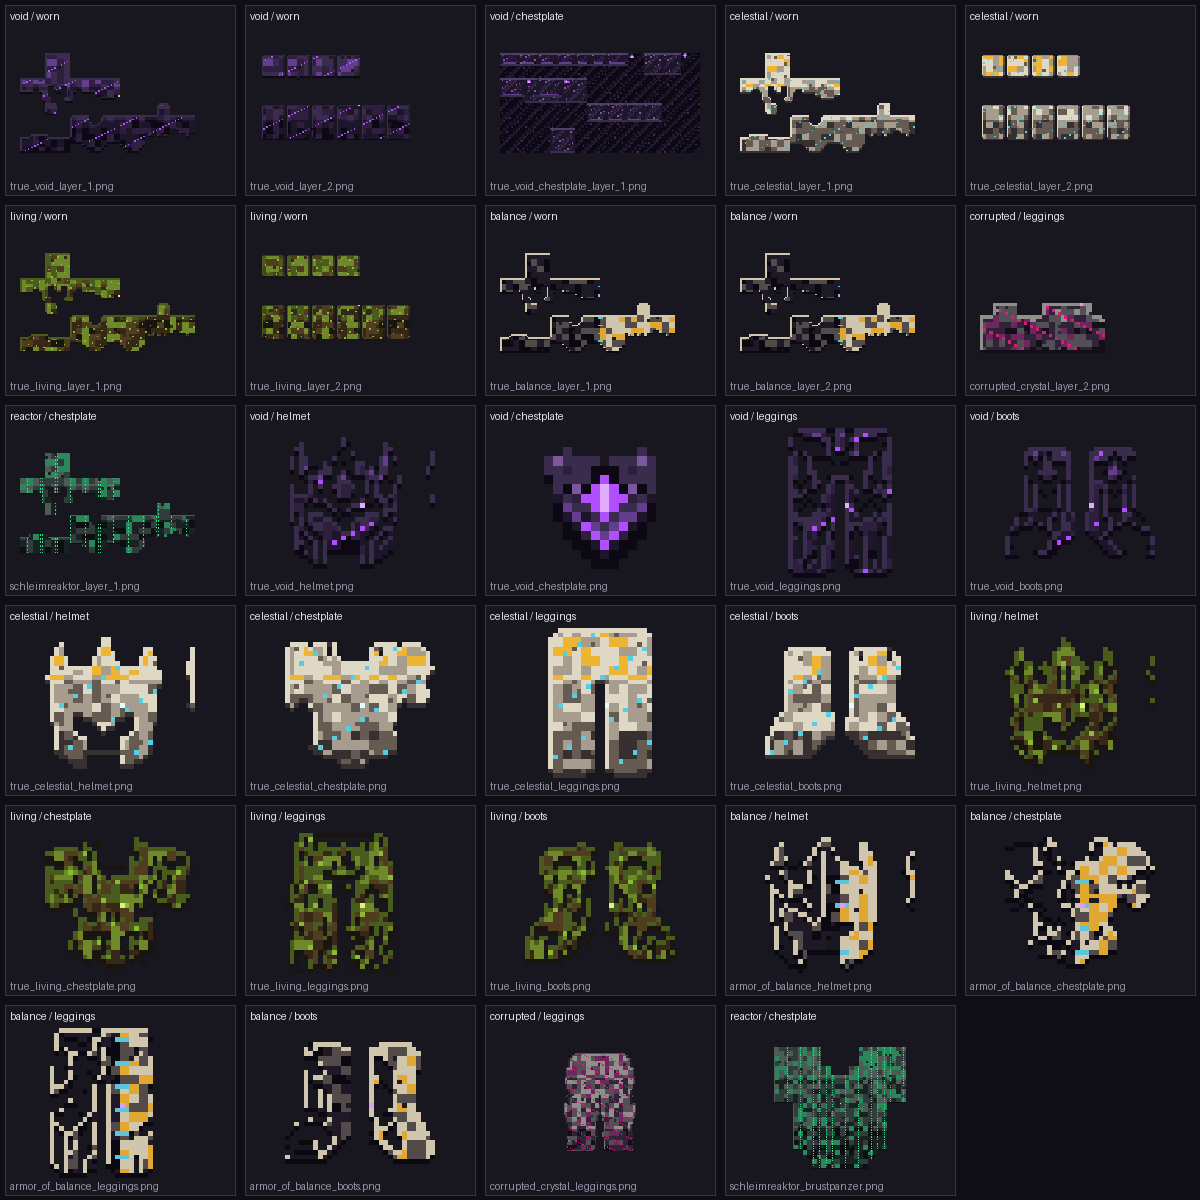
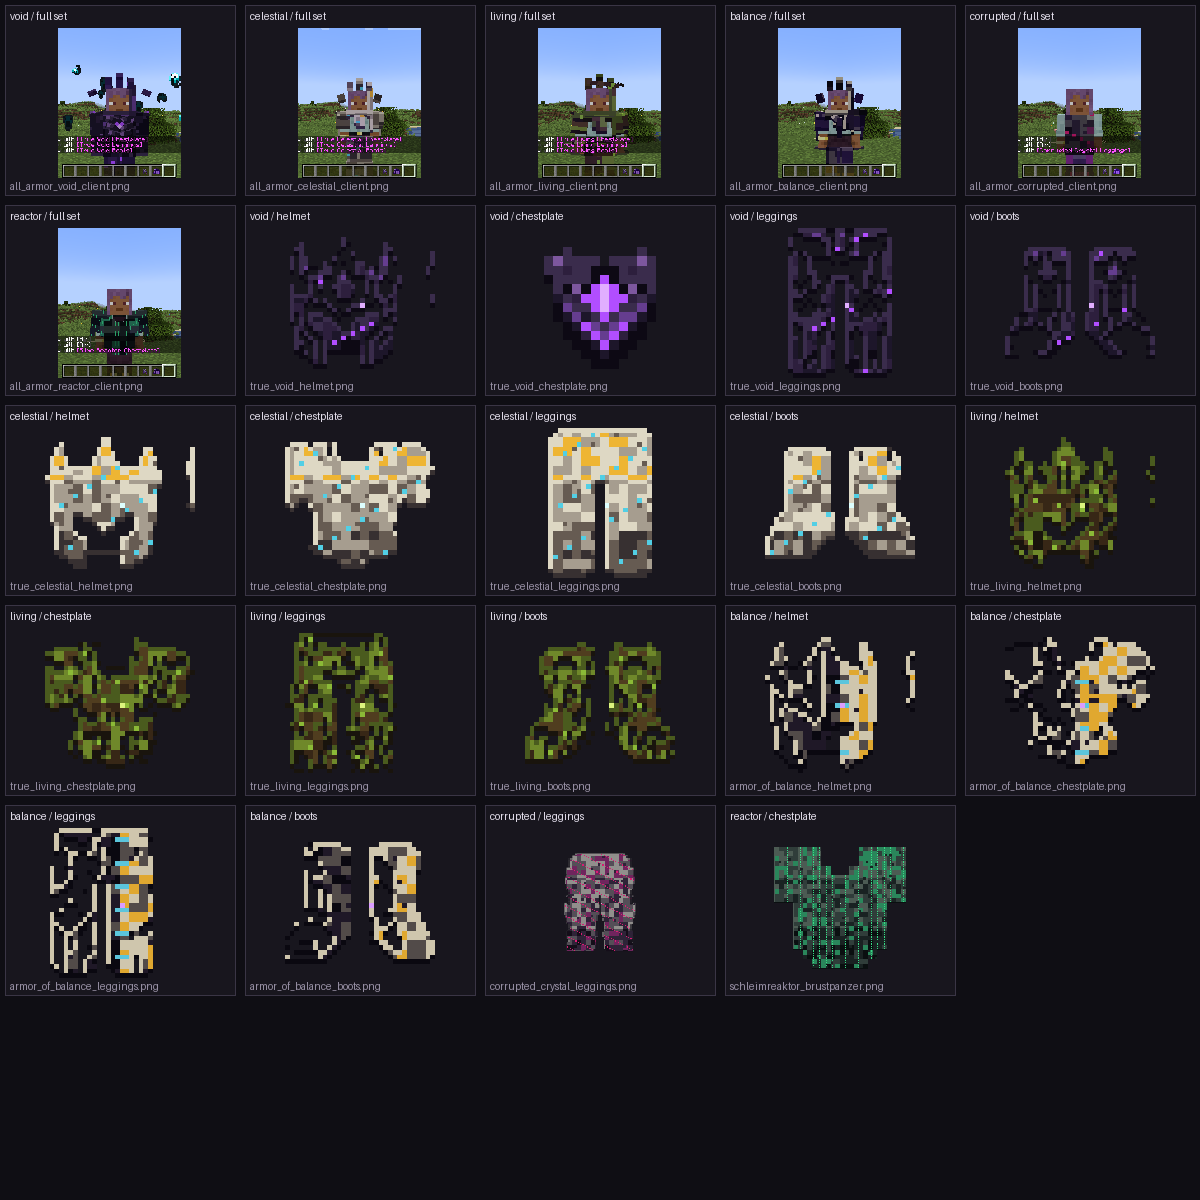
fix: repair armor crown pivots and previews

diff --git a/src/main/java/com/Momik/usless_mobs/client/WornTruePathArmorModel.java b/src/main/java/com/Momik/usless_mobs/client/WornTruePathArmorModel.java
@@ -99,12 +99,12 @@ public class WornTruePathArmorModel extends HumanoidModel<LivingEntity> {
                 PartPose.ZERO);
         root.getChild("head").addOrReplaceChild("balance_void_side_horn",
                 CubeListBuilder.create().texOffs(104, 0)
-                        .addBox(-6.4F, -10.6F, -1.0F, 2.8F, 1.4F, 2.0F, new CubeDeformation(0.06F)),
-                PartPose.rotation(0.0F, 0.0F, -0.48F));
+                        .addBox(-1.4F, -0.7F, -1.0F, 2.8F, 1.4F, 2.0F, new CubeDeformation(0.06F)),
+                PartPose.offsetAndRotation(-5.0F, -9.9F, 0.0F, 0.0F, 0.0F, -0.48F));
         root.getChild("head").addOrReplaceChild("balance_living_vine",
                 CubeListBuilder.create().texOffs(114, 0)
-                        .addBox(3.4F, -10.8F, -4.95F, 2.8F, 1.0F, 1.0F, new CubeDeformation(0.05F)),
-                PartPose.rotation(0.0F, 0.0F, 0.36F));
+                        .addBox(-1.4F, -0.5F, -0.5F, 2.8F, 1.0F, 1.0F, new CubeDeformation(0.05F)),
+                PartPose.offsetAndRotation(4.8F, -10.3F, -4.45F, 0.0F, 0.0F, 0.36F));
     }
 
     public static void showForType(HumanoidModel<?> model, ArmorItem.Type type) {
@@ -185,51 +185,50 @@ public class WornTruePathArmorModel extends HumanoidModel<LivingEntity> {
     }
 
     private static void addPathCrown(PartDefinition root, TruePathArmorItem.Path path) {
-        PartDefinition head = root.getChild("head");
-        head.addOrReplaceChild("true_crown_band",
+        root.getChild("head").addOrReplaceChild("true_crown_band",
                 CubeListBuilder.create().texOffs(72, 0)
                         .addBox(-5.0F, -9.0F, -5.0F, 10.0F, 2.0F, 10.0F, new CubeDeformation(0.18F)),
                 PartPose.ZERO);
-        head.addOrReplaceChild("true_crown_center_spike",
+        root.getChild("head").addOrReplaceChild("true_crown_center_spike",
                 CubeListBuilder.create().texOffs(0, 52)
                         .addBox(-1.0F, -12.2F, -5.15F, 2.0F, 4.0F, 2.0F, new CubeDeformation(0.10F)),
                 PartPose.ZERO);
-        head.addOrReplaceChild("true_crown_left_spike",
+        root.getChild("head").addOrReplaceChild("true_crown_left_spike",
                 CubeListBuilder.create().texOffs(8, 52)
                         .addBox(-4.2F, -11.0F, -5.0F, 1.8F, 3.2F, 1.8F, new CubeDeformation(0.08F)),
                 PartPose.ZERO);
-        head.addOrReplaceChild("true_crown_right_spike",
+        root.getChild("head").addOrReplaceChild("true_crown_right_spike",
                 CubeListBuilder.create().texOffs(16, 52)
                         .addBox(2.4F, -11.0F, -5.0F, 1.8F, 3.2F, 1.8F, new CubeDeformation(0.08F)),
                 PartPose.ZERO);
 
         if (path == TruePathArmorItem.Path.VOID) {
-            head.addOrReplaceChild("true_void_left_horn",
+            root.getChild("head").addOrReplaceChild("true_void_left_horn",
                     CubeListBuilder.create().texOffs(24, 52)
-                            .addBox(-6.2F, -10.4F, -1.2F, 2.5F, 1.5F, 2.4F, new CubeDeformation(0.06F)),
-                    PartPose.rotation(0.0F, 0.0F, -0.42F));
-            head.addOrReplaceChild("true_void_right_horn",
+                            .addBox(-1.25F, -0.75F, -1.2F, 2.5F, 1.5F, 2.4F, new CubeDeformation(0.06F)),
+                    PartPose.offsetAndRotation(-4.95F, -9.65F, 0.0F, 0.0F, 0.0F, -0.42F));
+            root.getChild("head").addOrReplaceChild("true_void_right_horn",
                     CubeListBuilder.create().texOffs(34, 52)
-                            .addBox(3.7F, -10.4F, -1.2F, 2.5F, 1.5F, 2.4F, new CubeDeformation(0.06F)),
-                    PartPose.rotation(0.0F, 0.0F, 0.42F));
+                            .addBox(-1.25F, -0.75F, -1.2F, 2.5F, 1.5F, 2.4F, new CubeDeformation(0.06F)),
+                    PartPose.offsetAndRotation(4.95F, -9.65F, 0.0F, 0.0F, 0.0F, 0.42F));
         } else if (path == TruePathArmorItem.Path.CELESTIAL) {
-            head.addOrReplaceChild("true_celestial_left_wing",
+            root.getChild("head").addOrReplaceChild("true_celestial_left_wing",
                     CubeListBuilder.create().texOffs(44, 52)
-                            .addBox(-6.4F, -8.6F, -1.0F, 2.6F, 3.2F, 1.8F, new CubeDeformation(0.05F)),
-                    PartPose.rotation(0.0F, 0.0F, -0.28F));
-            head.addOrReplaceChild("true_celestial_right_wing",
+                            .addBox(-1.3F, -1.6F, -0.9F, 2.6F, 3.2F, 1.8F, new CubeDeformation(0.05F)),
+                    PartPose.offsetAndRotation(-5.1F, -7.0F, -0.1F, 0.0F, 0.0F, -0.28F));
+            root.getChild("head").addOrReplaceChild("true_celestial_right_wing",
                     CubeListBuilder.create().texOffs(54, 52)
-                            .addBox(3.8F, -8.6F, -1.0F, 2.6F, 3.2F, 1.8F, new CubeDeformation(0.05F)),
-                    PartPose.rotation(0.0F, 0.0F, 0.28F));
+                            .addBox(-1.3F, -1.6F, -0.9F, 2.6F, 3.2F, 1.8F, new CubeDeformation(0.05F)),
+                    PartPose.offsetAndRotation(5.1F, -7.0F, -0.1F, 0.0F, 0.0F, 0.28F));
         } else {
-            head.addOrReplaceChild("true_living_vine",
+            root.getChild("head").addOrReplaceChild("true_living_vine",
                     CubeListBuilder.create().texOffs(64, 52)
-                            .addBox(-4.7F, -9.8F, -5.35F, 9.4F, 1.0F, 1.0F, new CubeDeformation(0.08F)),
-                    PartPose.rotation(0.0F, 0.0F, 0.12F));
-            head.addOrReplaceChild("true_living_leaf",
+                            .addBox(-4.7F, -0.5F, -0.5F, 9.4F, 1.0F, 1.0F, new CubeDeformation(0.08F)),
+                    PartPose.offsetAndRotation(0.0F, -9.3F, -4.85F, 0.0F, 0.0F, 0.12F));
+            root.getChild("head").addOrReplaceChild("true_living_leaf",
                     CubeListBuilder.create().texOffs(86, 52)
-                            .addBox(1.0F, -11.2F, -5.3F, 2.0F, 1.2F, 1.2F, new CubeDeformation(0.05F)),
-                    PartPose.rotation(0.0F, 0.0F, 0.42F));
+                            .addBox(-1.0F, -0.6F, -0.6F, 2.0F, 1.2F, 1.2F, new CubeDeformation(0.05F)),
+                    PartPose.offsetAndRotation(2.0F, -10.6F, -4.7F, 0.0F, 0.0F, 0.42F));
         }
     }
 

diff --git a/tools/armor_graphics/build_all_armor_skins.py b/tools/armor_graphics/build_all_armor_skins.py
@@ -304,11 +304,45 @@ def publish_documents(repo_root: Path, documents: dict[str, Image.Image]) -> Non
                 backup.unlink()
 
 
-def build_contact_sheet(documents: dict[str, Image.Image]) -> Image.Image:
+CLIENT_PREVIEW_PATHS = {
+    family: f"Modelle/Exports/armor_graphics_review/all_armor_{family}_client.png"
+    for family in ("void", "celestial", "living", "balance", "corrupted", "reactor")
+}
+
+
+def _client_subject_preview(source: Image.Image) -> Image.Image:
+    source = source.convert("RGBA")
+    # The real client captures are 16:9; crop the central player/model so details
+    # remain readable in the contact sheet instead of shrinking the whole HUD.
+    crop_width = min(source.width, round(source.height * 0.82))
+    left = max(0, (source.width - crop_width) // 2)
+    return source.crop((left, 0, left + crop_width, source.height))
+
+
+def contact_entries(
+    documents: dict[str, Image.Image], repo_root: Path
+) -> list[tuple[str, str, str, Image.Image]]:
+    entries = []
+    for family, relative_path in CLIENT_PREVIEW_PATHS.items():
+        path = repo_root / relative_path
+        if not path.is_file():
+            raise FileNotFoundError(f"missing real-client armor preview: {path}")
+        with Image.open(path) as source:
+            source.load()
+            entries.append((family, "full set", path.name, _client_subject_preview(source)))
+    for spec in OUTPUT_SPECS:
+        if "textures/item" in spec.relative_path:
+            entries.append(
+                (spec.family, spec.slot, Path(spec.relative_path).name, documents[spec.relative_path])
+            )
+    return entries
+
+
+def build_contact_sheet(documents: dict[str, Image.Image], repo_root: Path) -> Image.Image:
     sheet = Image.new("RGBA", (1200, 1200), (15, 14, 20, 255))
     draw = ImageDraw.Draw(sheet)
     cell_width, cell_height = 240, 200
-    for index, spec in enumerate(OUTPUT_SPECS):
+    for index, (family, slot, filename, image) in enumerate(contact_entries(documents, repo_root)):
         column, row = index % 5, index // 5
         left, top = column * cell_width, row * cell_height
         draw.rectangle(
@@ -316,7 +350,6 @@ def build_contact_sheet(documents: dict[str, Image.Image]) -> Image.Image:
             fill=(24, 22, 30, 255),
             outline=(58, 53, 69, 255),
         )
-        image = documents[spec.relative_path]
         scale = min(200 / image.width, 150 / image.height)
         preview = image.resize(
             (max(1, round(image.width * scale)), max(1, round(image.height * scale))),
@@ -325,8 +358,8 @@ def build_contact_sheet(documents: dict[str, Image.Image]) -> Image.Image:
         x = left + (cell_width - preview.width) // 2
         y = top + 28 + (150 - preview.height) // 2
         sheet.alpha_composite(preview, (x, y))
-        draw.text((left + 10, top + 10), f"{spec.family} / {spec.slot}", fill=(231, 226, 239, 255))
-        draw.text((left + 10, top + 180), Path(spec.relative_path).name, fill=(153, 145, 166, 255))
+        draw.text((left + 10, top + 10), f"{family} / {slot}", fill=(231, 226, 239, 255))
+        draw.text((left + 10, top + 180), filename, fill=(153, 145, 166, 255))
     return sheet
 
 
@@ -334,7 +367,9 @@ def write_all(repo_root: Path) -> None:
     documents = build_documents(repo_root)
     publish_documents(repo_root, documents)
     review_path = repo_root / "Modelle/Exports/armor_graphics_review/all_armor_skins_contact.png"
-    candidate = _stage_payload(review_path, png_bytes(build_contact_sheet(documents)), ".candidate")
+    candidate = _stage_payload(
+        review_path, png_bytes(build_contact_sheet(documents, repo_root)), ".candidate"
+    )
     try:
         os.replace(candidate, review_path)
     finally:

diff --git a/tools/armor_graphics/tests/test_armor_graphics.py b/tools/armor_graphics/tests/test_armor_graphics.py
@@ -485,7 +485,8 @@ def worn_model_child_owners(source: str) -> dict[str, str]:
 def worn_method_geometry(source: str, method_name: str) -> dict[str, tuple]:
     searchable_source = mask_java_non_code(source)
     declaration = re.compile(
-        rf"\bprivate\s+static\s+void\s+{re.escape(method_name)}\s*\(\s*PartDefinition\s+root\s*\)\s*\{{"
+        rf"\bprivate\s+static\s+void\s+{re.escape(method_name)}\s*\(\s*PartDefinition\s+root"
+        rf"(?:\s*,\s*TruePathArmorItem\.Path\s+path)?\s*\)\s*\{{"
     )
     declarations = list(declaration.finditer(searchable_source))
     if len(declarations) != 1:
@@ -979,6 +980,47 @@ class ContractHelperTests(unittest.TestCase):
         for mutation in mutations:
             with self.subTest(mutation=mutation), self.assertRaises(AssertionError):
                 worn_method_geometry(mutation, "build")
+
+    def test_path_crown_rotated_accents_use_local_centred_pivots(self):
+        source = (REPO_ROOT / "src/main/java/com/Momik/usless_mobs/client/WornTruePathArmorModel.java").read_text(
+            encoding="utf-8"
+        )
+        geometry = worn_method_geometry(source, "addPathCrown")
+        expected = {
+            "true_void_left_horn": ((2.5, 1.5, 2.4), (-4.95, -9.65, 0.0)),
+            "true_void_right_horn": ((2.5, 1.5, 2.4), (4.95, -9.65, 0.0)),
+            "true_celestial_left_wing": ((2.6, 3.2, 1.8), (-5.1, -7.0, -0.1)),
+            "true_celestial_right_wing": ((2.6, 3.2, 1.8), (5.1, -7.0, -0.1)),
+            "true_living_vine": ((9.4, 1.0, 1.0), (0.0, -9.3, -4.85)),
+            "true_living_leaf": ((2.0, 1.2, 1.2), (2.0, -10.6, -4.7)),
+        }
+        for name, (dimensions, offset) in expected.items():
+            with self.subTest(name=name):
+                part = geometry[name]
+                origin = part[2]
+                self.assertEqual(dimensions, part[3])
+                self.assertEqual("offsetAndRotation", part[5])
+                self.assertEqual(offset, part[6])
+                for axis in range(3):
+                    self.assertAlmostEqual(-dimensions[axis] / 2, origin[axis], places=5)
+
+    def test_balance_crown_accents_use_local_centred_pivots(self):
+        source = (REPO_ROOT / "src/main/java/com/Momik/usless_mobs/client/WornTruePathArmorModel.java").read_text(
+            encoding="utf-8"
+        )
+        geometry = worn_method_geometry(source, "addBalancedCrown")
+        expected = {
+            "balance_void_side_horn": ((2.8, 1.4, 2.0), (-5.0, -9.9, 0.0)),
+            "balance_living_vine": ((2.8, 1.0, 1.0), (4.8, -10.3, -4.45)),
+        }
+        for name, (dimensions, offset) in expected.items():
+            with self.subTest(name=name):
+                part = geometry[name]
+                self.assertEqual(dimensions, part[3])
+                self.assertEqual("offsetAndRotation", part[5])
+                self.assertEqual(offset, part[6])
+                for axis in range(3):
+                    self.assertAlmostEqual(-dimensions[axis] / 2, part[2][axis], places=5)
 
     def test_void_crystal_knight_routing_rejects_comment_literal_and_unrelated_decoys(self):
         valid = '''class Example {

diff --git a/tools/armor_graphics/tests/test_all_armor_skins.py b/tools/armor_graphics/tests/test_all_armor_skins.py
@@ -177,7 +177,18 @@ class AllArmorSkinContract(unittest.TestCase):
             self.assertEqual([], list(root.rglob("*.backup")))
 
     def test_contact_sheet_contains_all_outputs(self):
-        sheet = self.generator.build_contact_sheet(self.generator.build_documents(REPO_ROOT))
+        documents = self.generator.build_documents(REPO_ROOT)
+        entries = self.generator.contact_entries(documents, REPO_ROOT)
+        self.assertEqual(24, len(entries))
+        self.assertEqual(
+            {"void", "celestial", "living", "balance", "corrupted", "reactor"},
+            {entry[0] for entry in entries if entry[1] == "full set"},
+        )
+        self.assertFalse(
+            any("layer_" in filename for _family, _slot, filename, _image in entries),
+            "technical worn UV atlases must not be presented as finished graphics",
+        )
+        sheet = self.generator.build_contact_sheet(documents, REPO_ROOT)
         self.assertEqual("RGBA", sheet.mode)
         self.assertEqual((1200, 1200), sheet.size)
         self.assertGreater(len(set(sheet.getdata())), 30)
